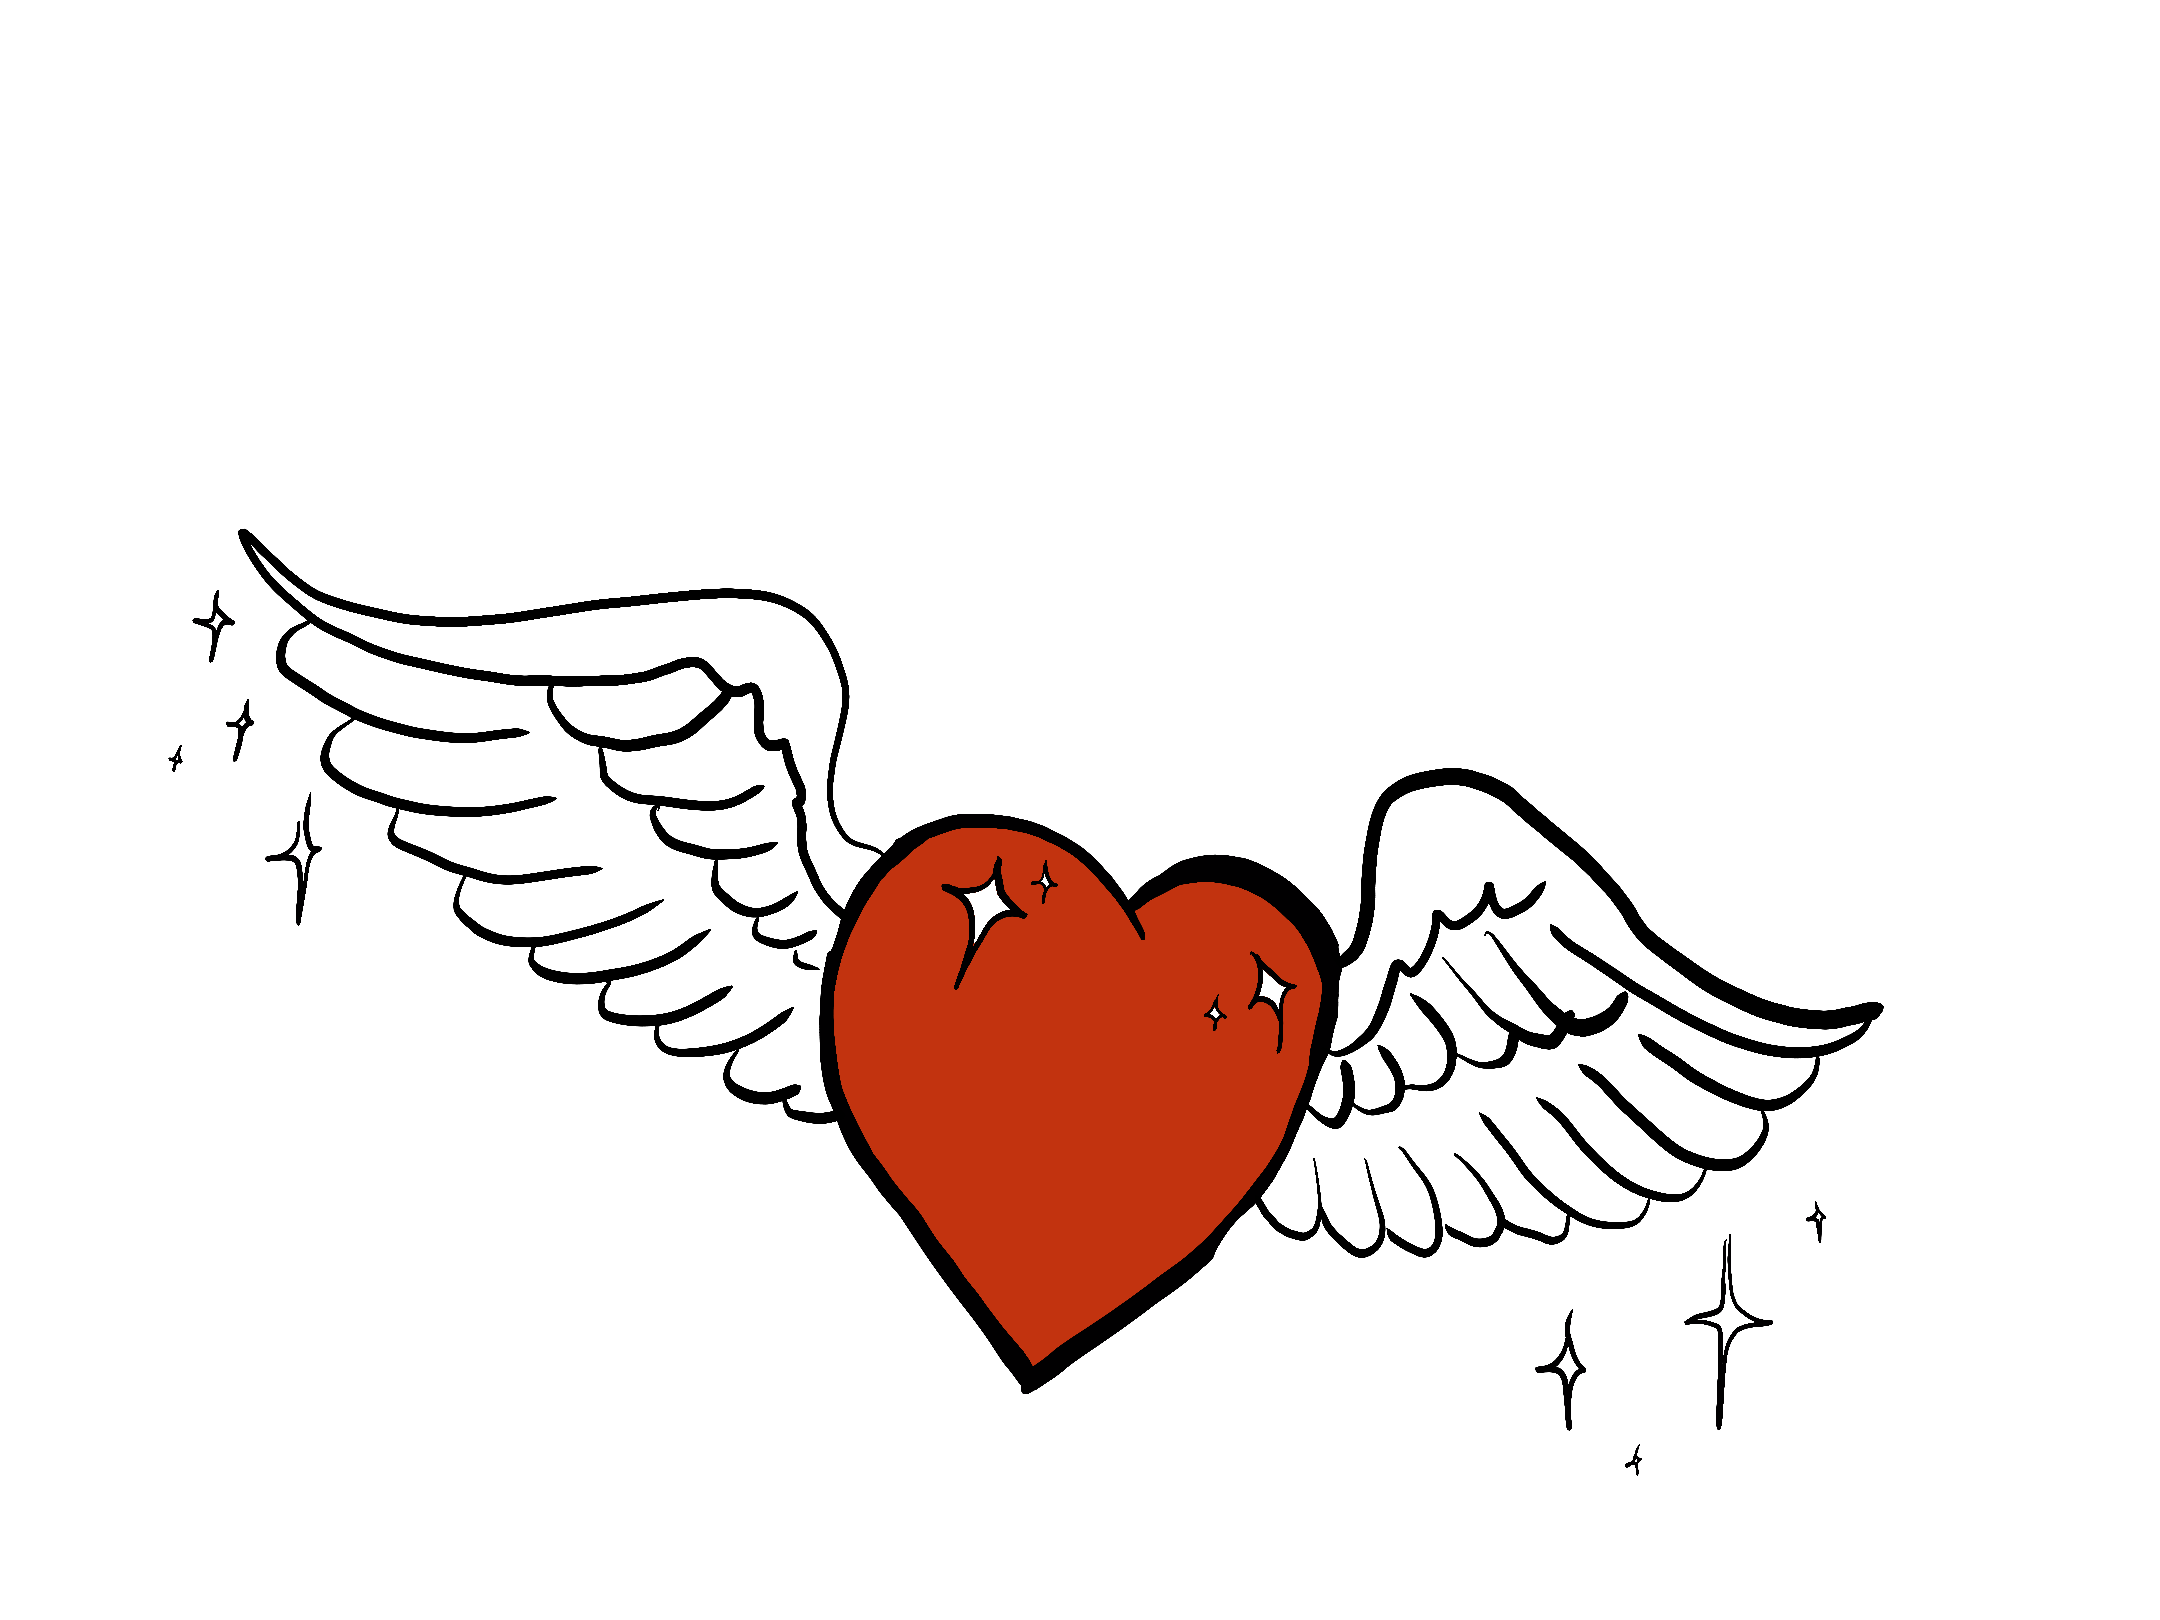
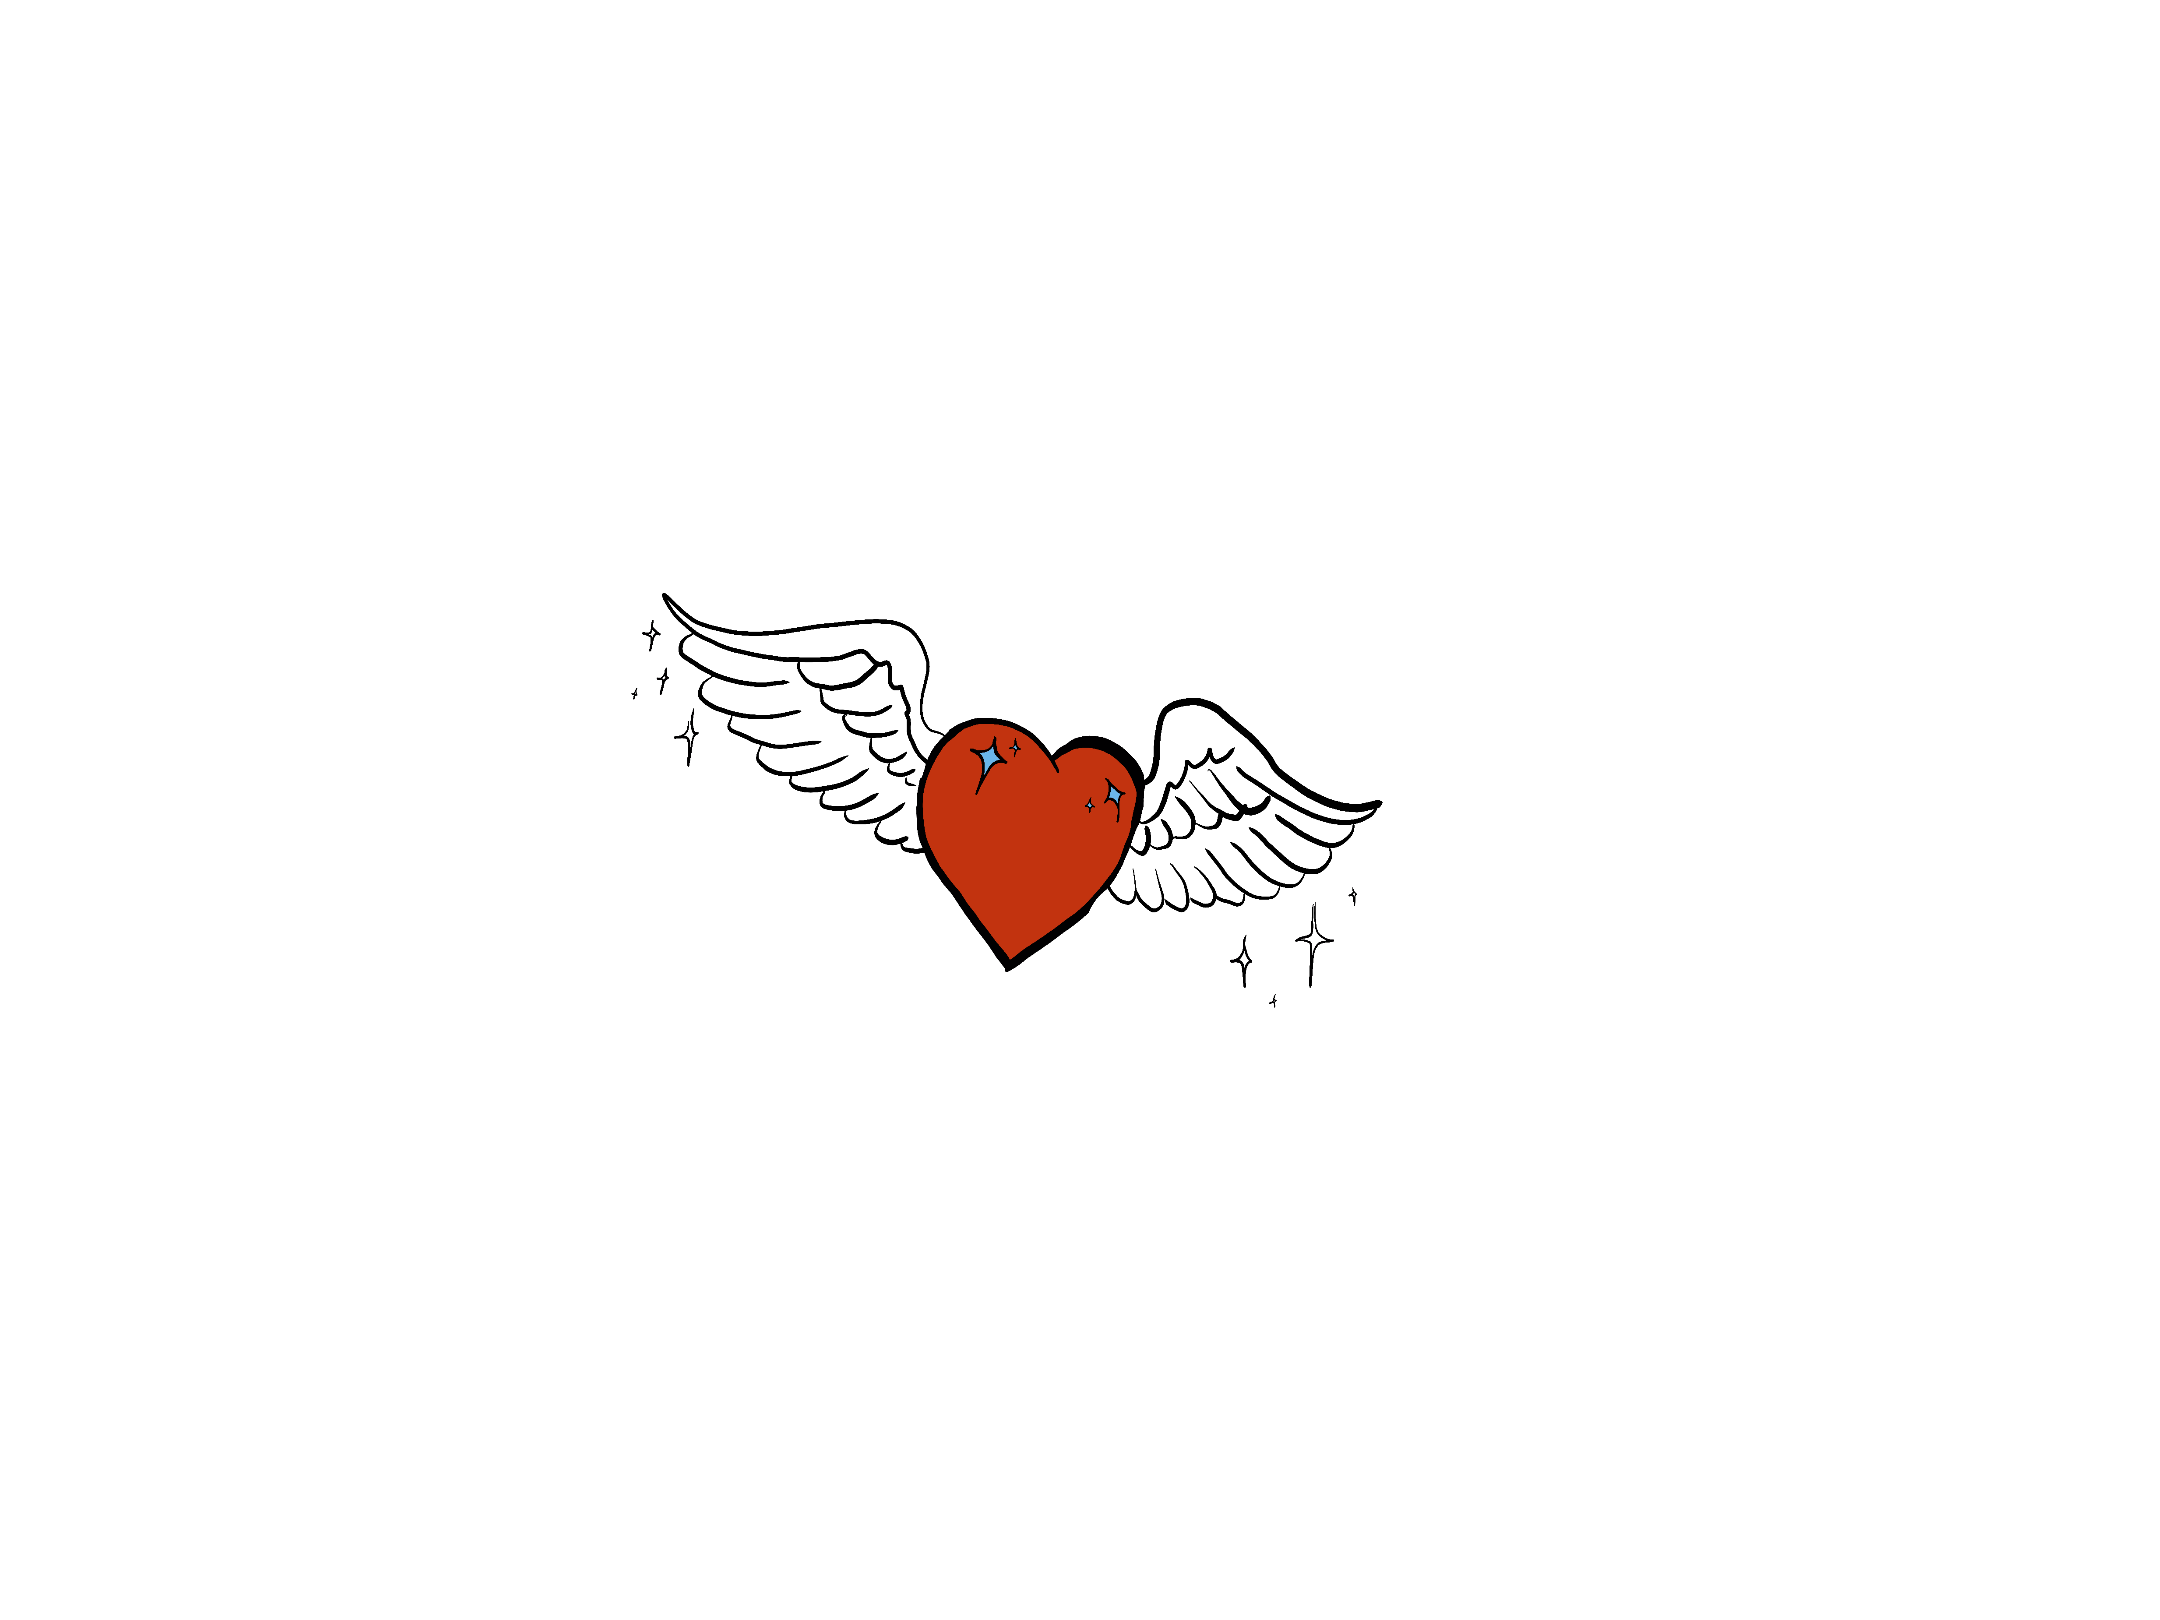
updates
updates

diff --git a/music_Heart.js b/music_Heart.js
@@ -3,13 +3,14 @@
 let firstRun = true;
 let heartImg;
 let bodyImg;
-let Newone;
+let wingsImg;
 
 
 function draw_one_frame(words, vocal, drum, bass, other, counter) {
   if(firstRun){
     heartImg = loadImage('heart.png')
     bodyImg = loadImage('body.png')
+    wingsImg = loadImage('wings.png')
 
  firstRun = false
    
@@ -17,15 +18,23 @@ function draw_one_frame(words, vocal, drum, bass, other, counter) {
   background(100)
   push()
 scale(0.4)
-
 image(bodyImg, 0,0)
 pop()
 
 push()
+scale(0.8)
+image(heartImg, -740,drum-450) // name of image, xpos, Ypos 
+pop()
+
+push()
 scale(0.2)
-image(heartImg, drum,0) // name of image, xpos, Ypos 
+image(wingsImg, vocal+840, 6500)
 pop()
 }
+
+
+
+
  
 
 // function draw_one_frame(words, vocal, drum, bass, other, counter) {

diff --git a/system_runner.js b/system_runner.js
@@ -1,5 +1,5 @@
-const canvasWidth = 540;
-const canvasHeight = 960;
+const canvasWidth = 520;
+const canvasHeight = 1900;
 
 
 let mainCanvas;
